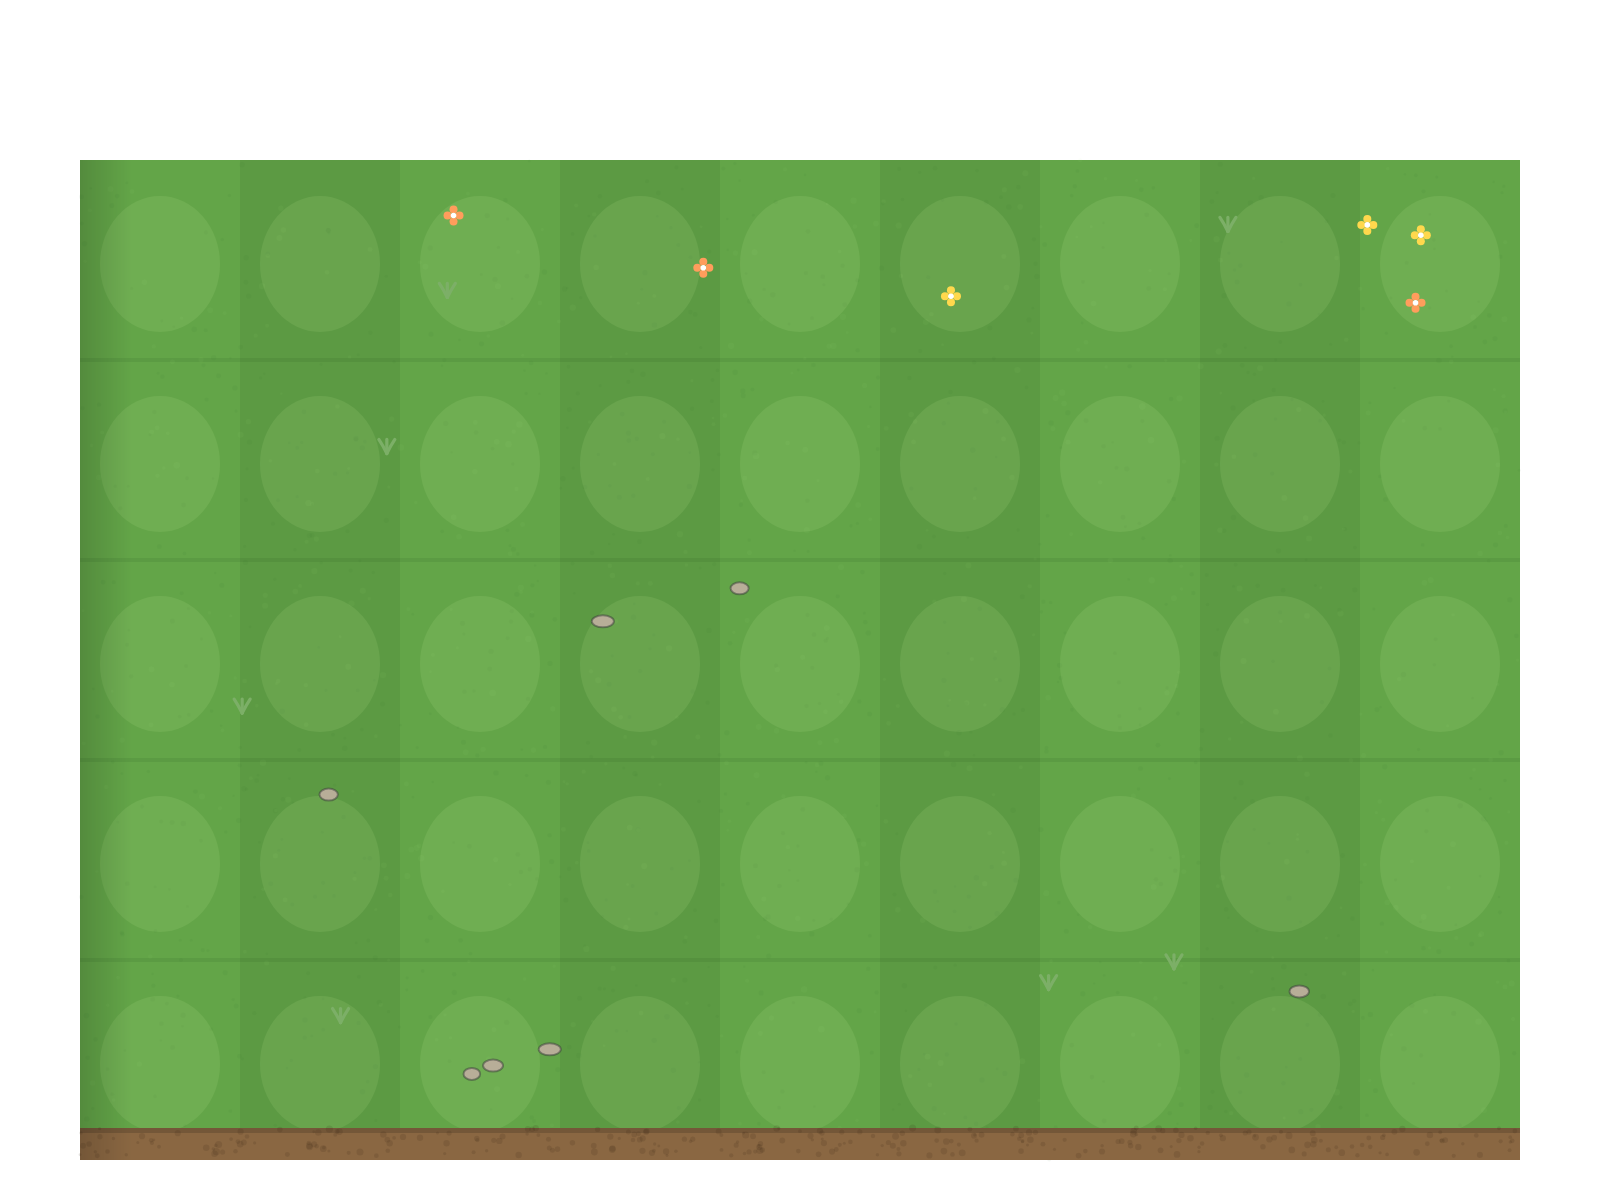
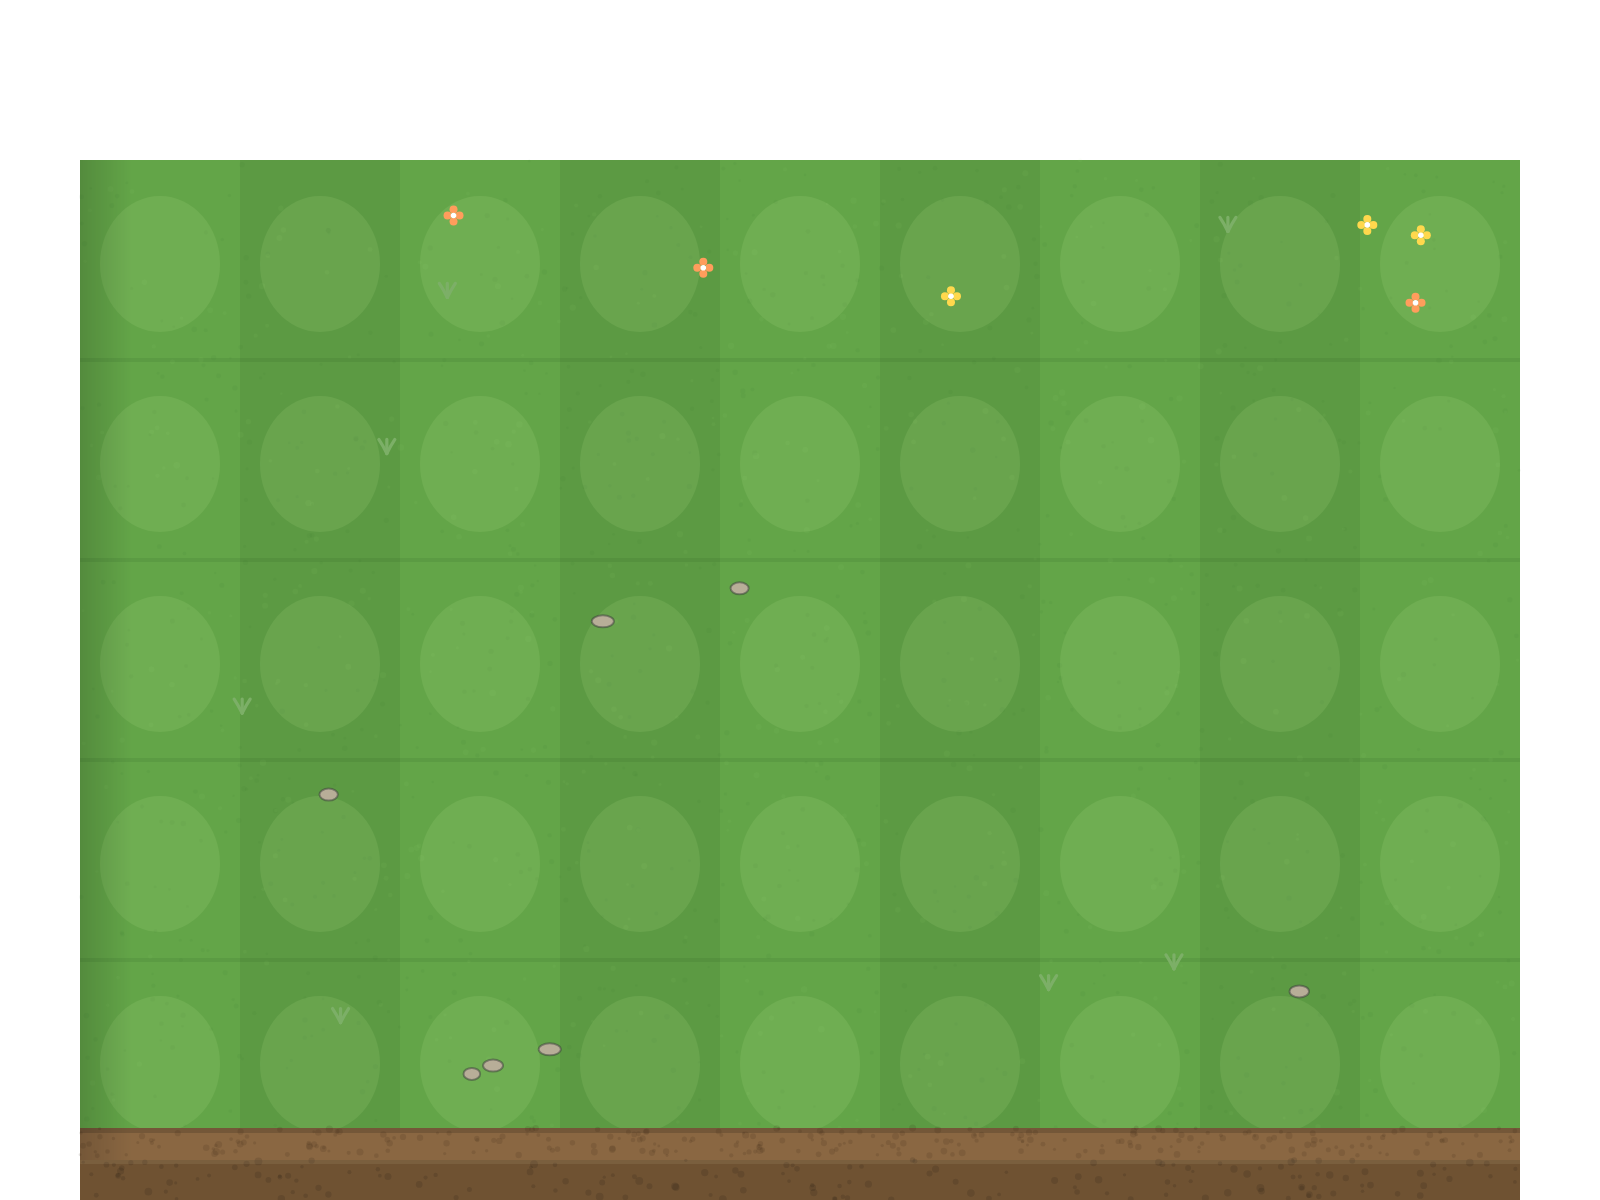
Ground the lawn bottom edge with a soil band and extend the sidewalk

Changed region(s): [[0.0312, 0.9558, 0.9688, 1.0]]

diff --git a/src/art/environment.ts b/src/art/environment.ts
@@ -22,6 +22,7 @@ import {
   SKY_HORIZON,
   SKY_TOP,
   SOIL,
+  SOIL_DARK,
   STONE,
   WINDOW_GLASS,
 } from './palette';
@@ -179,13 +180,13 @@ export function drawHouse(ctx: CanvasRenderingContext2D): void {
   // ---- right sidewalk ----
   const sx = LAWN_LEFT + LAWN_W;
   ctx.fillStyle = SIDEWALK;
-  ctx.fillRect(sx, LAWN_TOP, LOGICAL_W - sx, LAWN_H);
+  ctx.fillRect(sx, LAWN_TOP, LOGICAL_W - sx, LOGICAL_H - LAWN_TOP);
   ctx.fillStyle = 'rgba(0,0,0,0.10)';
-  for (const sy of [LAWN_TOP + 125, LAWN_TOP + 260, LAWN_TOP + 395]) {
+  for (const sy of [LAWN_TOP + 125, LAWN_TOP + 260, LAWN_TOP + 395, 570]) {
     ctx.fillRect(sx, sy, LOGICAL_W - sx, 2);
   }
   const r2 = frameRng(202);
-  speckle(ctx, r2, sx, LAWN_TOP, LOGICAL_W - sx, LAWN_H, 90, 'rgba(0,0,0,0.07)', 0.5);
+  speckle(ctx, r2, sx, LAWN_TOP, LOGICAL_W - sx, LOGICAL_H - LAWN_TOP, 110, 'rgba(0,0,0,0.07)', 0.5);
   // curb shadow toward the lawn
   const curb = ctx.createLinearGradient(sx - 8, 0, sx, 0);
   curb.addColorStop(0, 'rgba(0,0,0,0)');
@@ -291,6 +292,13 @@ export function drawLawn(ctx: CanvasRenderingContext2D): void {
   shade.addColorStop(1, 'rgba(0,0,0,0)');
   ctx.fillStyle = shade;
   ctx.fillRect(x, y, 26, h);
+
+  // grounding band below the lawn (garden path edge)
+  ctx.fillStyle = SOIL_DARK;
+  ctx.fillRect(x, y + h, w, LOGICAL_H - (y + h));
+  speckle(ctx, r, x, y + h, w, LOGICAL_H - (y + h), 160, 'rgba(0,0,0,0.22)', 0.5, 0.8, 2);
+  ctx.fillStyle = 'rgba(255,240,200,0.08)';
+  ctx.fillRect(x, y + h, w, 2);
 }
 
 /** Layer 7: foreground foliage corners (painted, slightly soft). */
